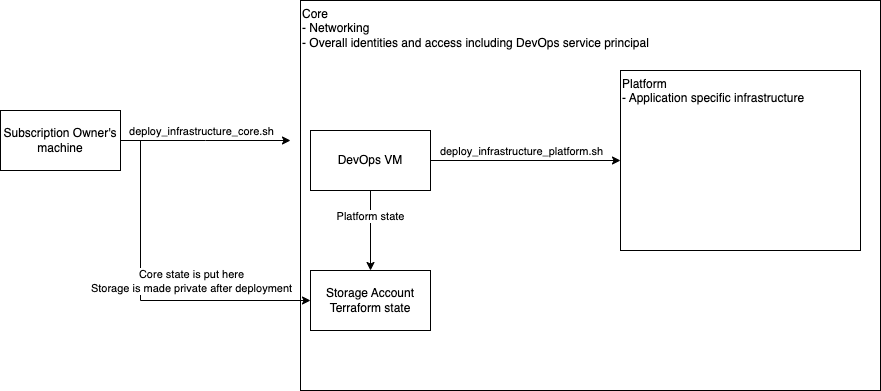
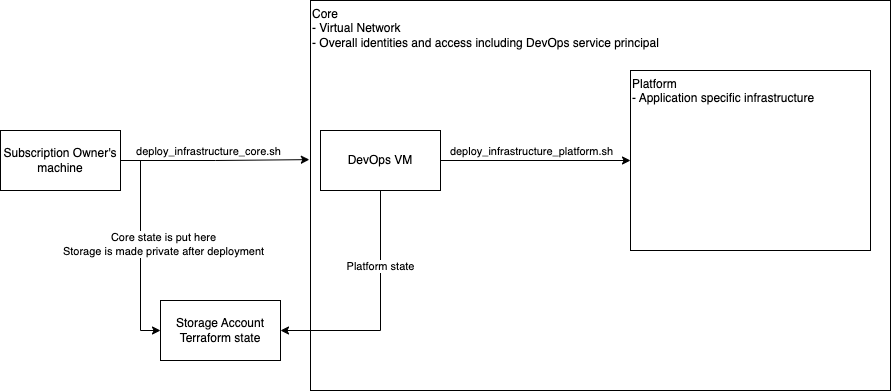
fix acr fw conf; update docs

Changed region(s): [[0.0, 0.0, 0.7355, 1.0], [0.7049, 0.1841, 0.9194, 0.2762], [0.4904, 0.3683, 0.7049, 0.4297]]

diff --git a/readme.md b/readme.md
@@ -6,12 +6,13 @@ This projects provides the code for an Azure function that receives
 3. an output path where the resulting pdf will be stored
 The storage media are blob storages. The template populator applies the map to the document and saves it as a pdf.
 
+
 # Requirements
-- Azure account and subscription
-- Libre Office (for local development)
-- Docker
+- [Azure](https://azure.microsoft.com/en-us) account and subscription
+- [Terraform](https://developer.hashicorp.com/terraform/install?product_intent=terraform)
 - [Azure CLI](https://learn.microsoft.com/en-us/cli/azure/)
-- Terraform
+- [Libre Office](https://www.libreoffice.org/download/download-libreoffice/) (for local development)
+- [Docker](https://docs.docker.com/engine/install/) (for local development)
 
 # Setup
 
@@ -54,7 +55,7 @@ and deploy application layer infrastructure
 cd ~/TemplatePopulator
 ./cicd/deploy_infrastructure_platform.sh apply
 ```
-![Image](./docs/systems.png)
+Probably, this command has to be run twice as the private endpoint configuration has an Azure-internal delay that Terraform doesn't take into account properly. There would be a `403` Error while reading the container states of the storage account.
 
 Deploy the app
 ```
@@ -140,3 +141,13 @@ and destroy the core infrastructure
 ```
 ./cicd/destroy_infrastructure_core.sh
 ```
+
+# ToDo
+- Mange most secrets in a key vault
+- DevOps VM authentication (maybe assign the service principal as a user assigned identity)
+
+# Architecture
+
+## Infrastructure
+![Image](./docs/systems.png)
+
